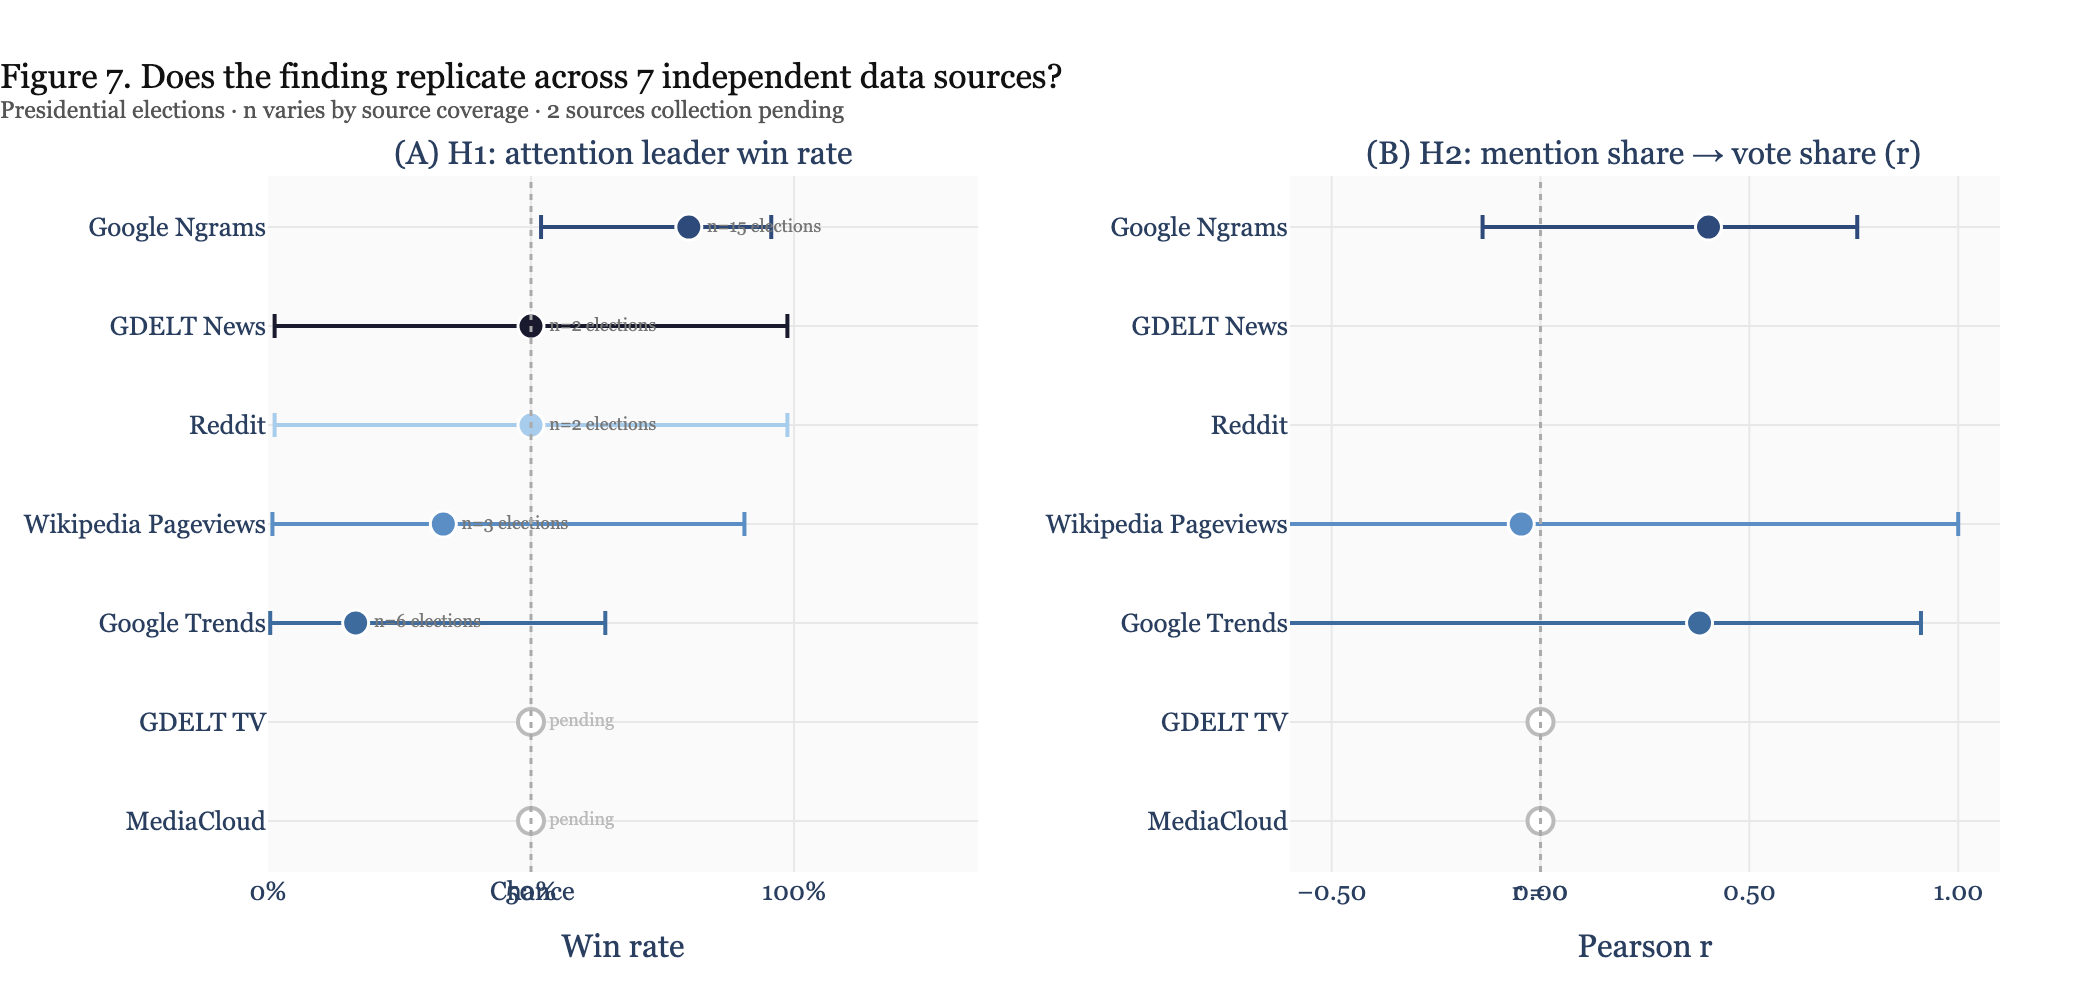
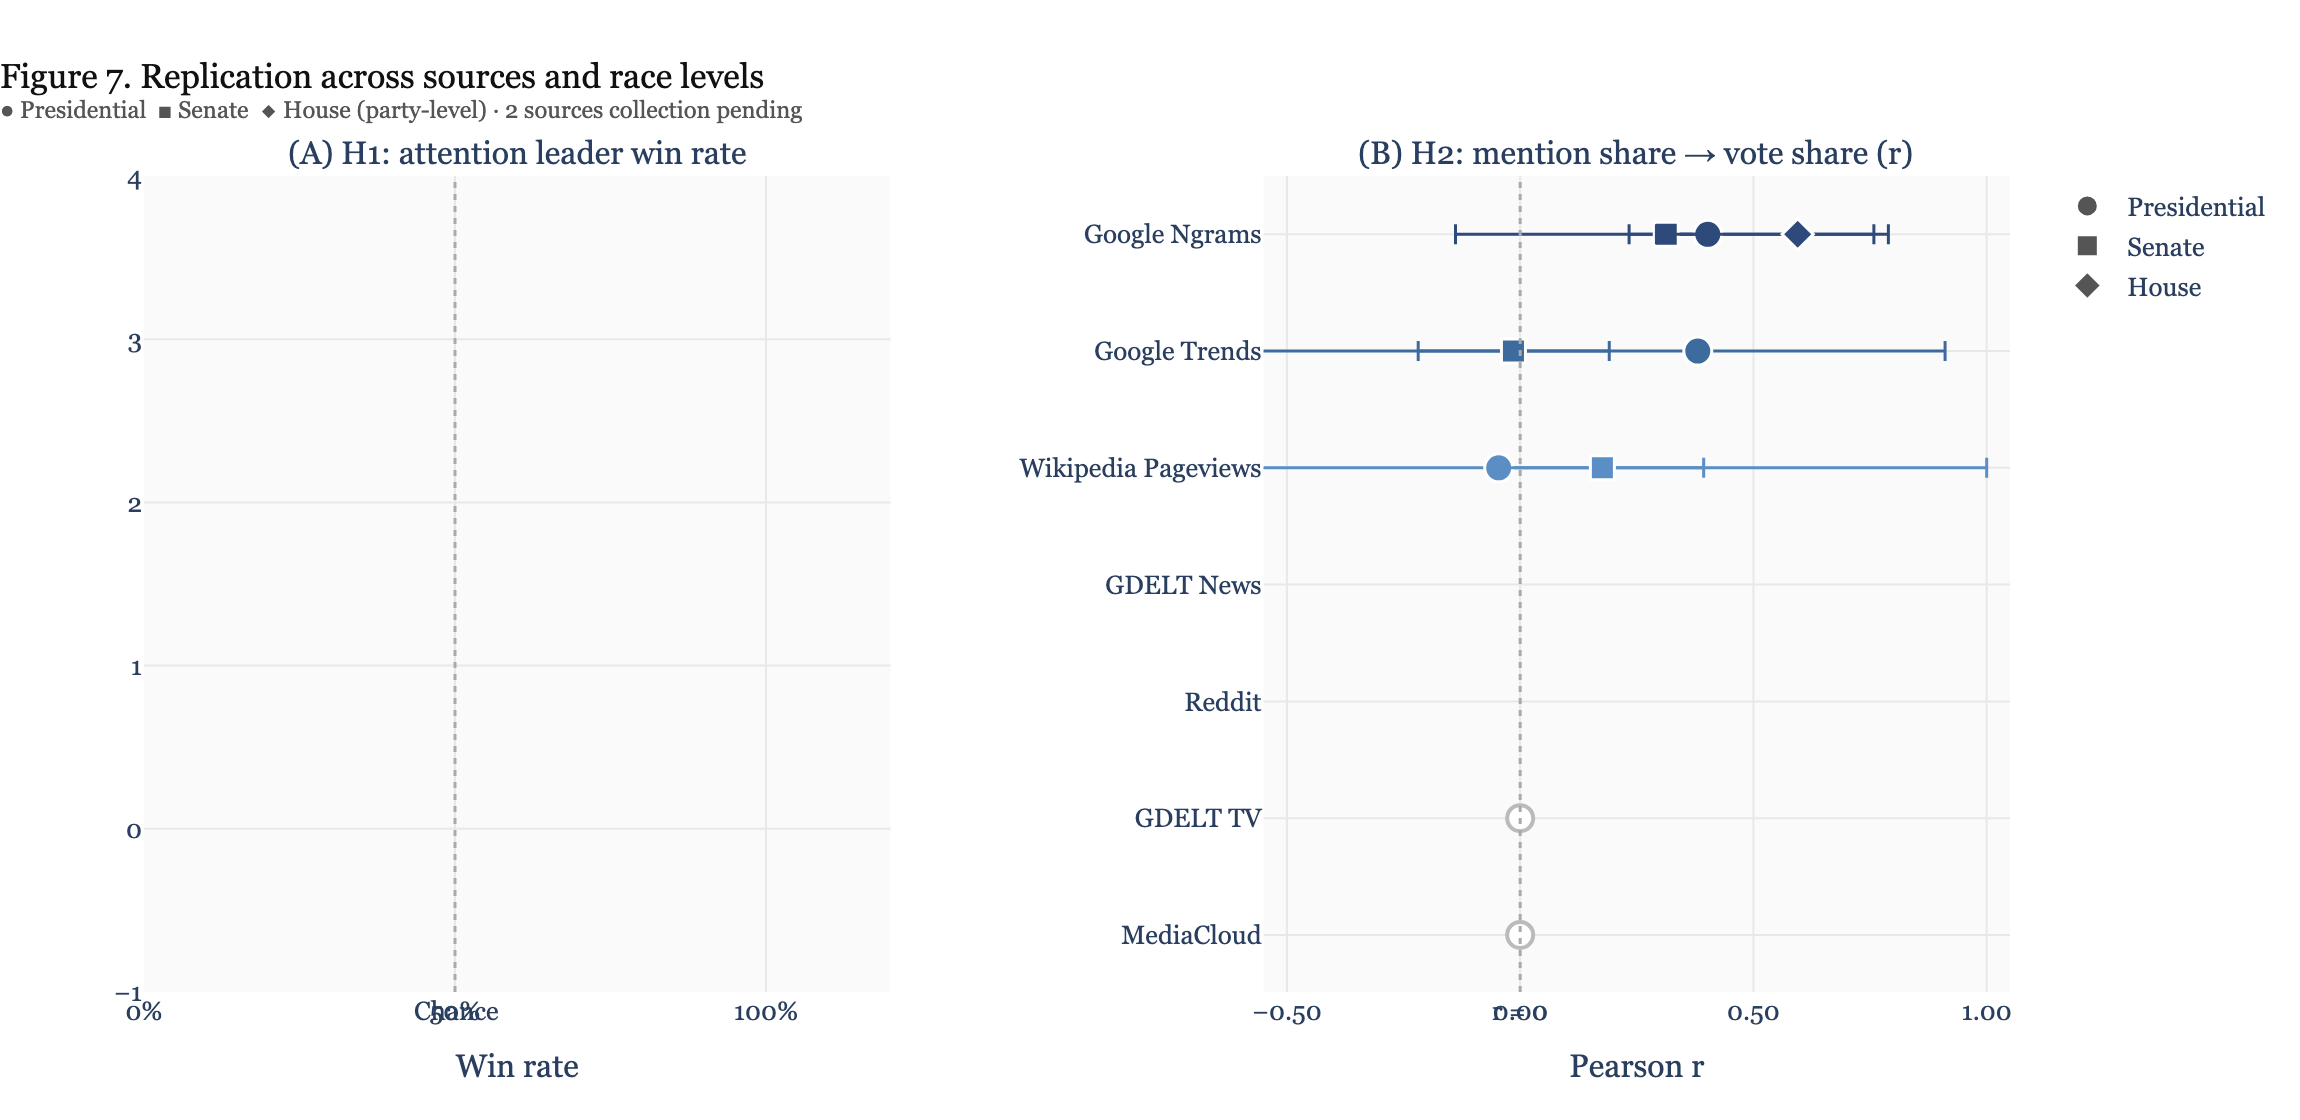
Fig 3 + Fig 7: add Senate and House levels to all multi-source figures
Fig 3: second panel added — Senate gap vs. vote margin (n=521 races),
log x-axis for skewed gap distribution. r(log)=0.40.

Fig 7: full source × level matrix. Rows = sources (5 real + 2 pending),
dots show each available level per row: ● Presidential ■ Senate ◆ House.
Coverage: Ngrams has all 3 levels; Trends + Wikipedia have pres + senate;
GDELT + Reddit presidential only. House uses party-level attention share.

diff --git a/scripts/generate_figures.py b/scripts/generate_figures.py
@@ -280,10 +280,25 @@ r3, _ = pearsonr(h3['gap'], h3['margin'])
 m3, b3 = np.polyfit(h3['gap'], h3['margin'], 1)
 xr3 = np.linspace(h3['gap'].min() - 0.05, h3['gap'].max() + 0.1, 200)
 
+# Senate gap vs margin
+senate_ng['gap'] = senate_ng['winner_mention_share'] / (1 - senate_ng['winner_mention_share'])
+senate_ng['margin'] = senate_ng['winner_vote_pct'] - senate_ng['loser_vote_pct']
+senate_ng['upset'] = senate_ng['gap'] < 1
+
+# Use log(gap) for OLS since gap is right-skewed
+from scipy.stats import pearsonr as _pr
+r3s_log, _ = _pr(np.log(senate_ng['gap']), senate_ng['margin'])
+s_sub = senate_ng[senate_ng['gap'] <= senate_ng['gap'].quantile(0.95)]
+m3s, b3s = np.polyfit(s_sub['gap'], s_sub['margin'], 1)
+
 fig = make_subplots(rows=1, cols=2,
-    subplot_titles=['(A) Attention gap vs. vote margin', '(B) Attention ratio by election year'],
+    subplot_titles=[
+        f'(A) Presidential — gap vs. vote margin (n={len(h3)})',
+        f'(B) Senate — gap vs. vote margin (n={len(senate_ng):,})',
+    ],
     horizontal_spacing=0.12)
 
+# Panel A — Presidential (labeled points, linear scale)
 for upset, color, label in [(False, NAVY, 'Attention → winner'), (True, UPSET, 'Attention upset')]:
     sub = h3[h3['upset'] == upset]
     fig.add_trace(go.Scatter(
@@ -297,29 +312,39 @@ fig.add_trace(go.Scatter(x=xr3, y=m3 * xr3 + b3, mode='lines',
 fig.add_vline(x=1, line_dash='dot', line_color='#aaa', line_width=1.5, row=1, col=1)
 fig.add_hline(y=0, line_dash='dot', line_color='#aaa', line_width=1, row=1, col=1)
 
-bar_colors = [UPSET if u else NAVY for u in h3['upset']]
-winner_labels = h3['winner_name'].str.split().str[-1] + ' ' + h3['gap'].map('{:.2f}×'.format)
-fig.add_trace(go.Bar(
-    x=h3['year'], y=h3['gap'],
-    text=winner_labels,
-    textposition='outside', textfont=dict(size=8),
-    marker_color=bar_colors, marker_line_width=0, width=3,
-    showlegend=False,
+# Panel B — Senate (dots, log x-axis to handle extreme outliers)
+for upset, color, label in [(False, '#3d6b9e', 'Attention → winner'), (True, UPSET, 'Attention upset')]:
+    sub = senate_ng[senate_ng['upset'] == upset]
+    fig.add_trace(go.Scatter(
+        x=sub['gap'], y=sub['margin'], mode='markers',
+        marker=dict(color=color, size=4, opacity=0.4, line=dict(width=0)),
+        name=label, legendgroup=label, showlegend=False,
+        hovertemplate='%{x:.1f}× gap · %{y:.1%} margin<extra></extra>',
+    ), row=1, col=2)
+
+# OLS on log-scale gap for Senate panel
+log_gap_s = np.log10(senate_ng['gap'].clip(lower=0.001))
+m3s_log, b3s_log = np.polyfit(log_gap_s, senate_ng['margin'], 1)
+xlog_range = np.linspace(log_gap_s.min(), log_gap_s.quantile(0.99), 200)
+fig.add_trace(go.Scatter(
+    x=10**xlog_range, y=m3s_log * xlog_range + b3s_log, mode='lines',
+    line=dict(color='#222', dash='dash', width=2),
+    name=f'OLS log-gap (r={r3s_log:.2f})', showlegend=True,
 ), row=1, col=2)
-fig.add_hline(y=1, line_dash='dot', line_color='#aaa', line_width=1.5,
-    annotation_text='Equal (1×)', annotation_position='top left', row=1, col=2)
+fig.add_vline(x=1, line_dash='dot', line_color='#aaa', line_width=1.5, row=1, col=2)
+fig.add_hline(y=0, line_dash='dot', line_color='#aaa', line_width=1, row=1, col=2)
 
 fig.update_xaxes(title_text='Mention ratio (winner ÷ loser)', row=1, col=1)
+fig.update_xaxes(title_text='Mention ratio (winner ÷ loser, log scale)',
+    type='log', row=1, col=2)
 fig.update_yaxes(tickformat='.1%', title_text='Popular vote margin', row=1, col=1)
-fig.update_xaxes(title_text='Election year', tickmode='array',
-    tickvals=h3['year'].tolist(), tickangle=-55, tickfont=dict(size=10), row=1, col=2)
-fig.update_yaxes(title_text='Attention ratio (winner ÷ loser)',
-    range=[0, h3['gap'].max() * 1.25], row=1, col=2)
+fig.update_yaxes(tickformat='.1%', title_text='Popular vote margin', row=1, col=2)
 fig.update_xaxes(showgrid=True, gridcolor=GRID, zeroline=False)
 fig.update_yaxes(showgrid=True, gridcolor=GRID, zeroline=False)
 style(fig,
-      'Figure 3. Attention gap: does bigger coverage lead predict bigger win?',
-      f'Google Ngrams · 1960–2016 · Red = elections where attention underdog won · r={r3:.2f}',
+      'Figure 3. Attention gap vs. vote margin — presidential and Senate',
+      f'Google Ngrams · Pres r={r3:.2f} · Senate r(log)={r3s_log:.2f} · '
+      f'Red = attention underdog won',
       w=1100, h=520)
 save(fig, 'figures/fig3_gap_and_timeline.png')
 
@@ -433,81 +458,143 @@ style(fig,
 save(fig, 'figures/fig6_gap_distribution.png')
 
 
-# ── Figure 7: Multi-source forest plot ────────────────────────────────────────
-# Build source stats from real data (presidential only for cross-source comparison)
-def source_entry(name, df, color, desc):
+# ── Figure 7: Multi-source × multi-level forest plot ─────────────────────────
+# Rows = sources. Each source shows up to 3 dots: presidential (circle),
+# senate (square), house (diamond). Levels with no data are omitted per row.
+# 2 panels: (A) H1 win rate, (B) H2 Pearson r.
+
+def level_entry(df, level, vote_col, is_fraction=True):
+    """Compute H1 and H2 for one source × level combination."""
+    df = df[df['attention_leader_won'].notna()].copy()
+    if len(df) < 2:
+        return None
     k, n, rate, lo, hi, pval = h1_stats(df)
-    ms = df['winner_mention_share']
-    vs = df['winner_vote_frac'] if 'winner_vote_frac' in df.columns else df['winner_vote_pct'] / 100
     if n >= 3:
-        r, _, r_lo, r_hi = h2_stats('winner_mention_share',
-                                     'winner_vote_frac' if 'winner_vote_frac' in df.columns else 'winner_vote_pct',
-                                     df)
-        if 'winner_vote_frac' not in df.columns:
-            r, _, r_lo, r_hi = pearsonr(ms, vs / 100 if vs.max() > 2 else vs), None, None, None
-            r, p2 = pearsonr(ms, df['winner_vote_pct'] / 100)
-            r_lo, r_hi = pearson_r_ci(r, n)
+        vs = df[vote_col] if is_fraction else df[vote_col] / 100
+        r, _, r_lo, r_hi = h2_stats('winner_mention_share', vote_col, df) if is_fraction \
+            else (lambda: (lambda r2, p2: (*([r2, p2]), *pearson_r_ci(r2, n)))
+                          (*pearsonr(df['winner_mention_share'], df[vote_col] / 100)))()
+        if not is_fraction:
+            r2, _ = pearsonr(df['winner_mention_share'], df[vote_col] / 100)
+            r_lo2, r_hi2 = pearson_r_ci(r2, n)
+            r, r_lo, r_hi = r2, r_lo2, r_hi2
     else:
         r, r_lo, r_hi = float('nan'), float('nan'), float('nan')
-    return dict(name=name, color=color, desc=desc,
-                n=n, rate=rate, lo=lo, hi=hi, pval=pval,
+    return dict(level=level, n=n, rate=rate, lo=lo, hi=hi, pval=pval,
                 r=r, r_lo=r_lo, r_hi=r_hi)
 
-sources_real = [
-    source_entry('Google Ngrams',       pres_ng,    SRC_PALETTE[1], 'Book corpus · 1960–2016'),
-    source_entry('Google Trends',       trends_pres, SRC_PALETTE[2], 'Search volume · 2004–2024'),
-    source_entry('Wikipedia Pageviews', wiki_pres,  SRC_PALETTE[3], 'Article views · 2016–2024'),
-    source_entry('GDELT News',          gdelt_pres, SRC_PALETTE[0], 'News articles · 2020–2024'),
-    source_entry('Reddit',              reddit_pres,SRC_PALETTE[5], 'r/politics posts · 2008–2012'),
-]
+# House needs special handling (party-level, d_attention_share vs d_seat_share)
+def house_level_entry():
+    k, n, rate, lo, hi, pval = h1_stats(house_ng, 'attn_predicts_majority')
+    r, _, r_lo, r_hi = h2_stats('d_attention_share', 'd_seat_share', house_ng)
+    return dict(level='House', n=n, rate=rate, lo=lo, hi=hi, pval=pval,
+                r=r, r_lo=r_lo, r_hi=r_hi)
 
-# Sort by H1 win rate
-src_df = pd.DataFrame(sources_real).sort_values('rate', ascending=False)
+# Senate Trends: vote_pct is fraction already
+senate_trends = pd.read_csv('data/raw/trends/senate_mention_shares.csv')
+senate_trends = senate_trends[senate_trends['attention_leader_won'].notna()].copy()
+senate_trends['winner_vote_frac'] = senate_trends['winner_vote_pct']
+
+senate_wiki = pd.read_csv('data/raw/wikipedia/senate_mention_shares.csv')
+senate_wiki['winner_vote_frac'] = senate_wiki['winner_vote_pct']
+
+# Build the full source × level matrix
+SOURCE_LEVELS = [
+    ('Google Ngrams',       SRC_PALETTE[1], [
+        level_entry(pres_ng,      'Presidential', 'winner_vote_frac'),
+        level_entry(senate_ng,    'Senate',        'winner_vote_pct'),
+        house_level_entry(),
+    ]),
+    ('Google Trends',       SRC_PALETTE[2], [
+        level_entry(trends_pres,   'Presidential', 'winner_vote_frac'),
+        level_entry(senate_trends, 'Senate',        'winner_vote_frac'),
+    ]),
+    ('Wikipedia Pageviews', SRC_PALETTE[3], [
+        level_entry(wiki_pres,  'Presidential', 'winner_vote_frac'),
+        level_entry(senate_wiki,'Senate',        'winner_vote_frac'),
+    ]),
+    ('GDELT News',          SRC_PALETTE[0], [
+        level_entry(gdelt_pres, 'Presidential', 'winner_vote_frac'),
+    ]),
+    ('Reddit',              SRC_PALETTE[5], [
+        level_entry(reddit_pres,'Presidential', 'winner_vote_frac'),
+    ]),
+]
 
 PENDING = [
-    ('GDELT TV',    SRC_PALETTE[4], 'Broadcast transcripts · collection pending'),
-    ('MediaCloud',  SRC_PALETTE[6], 'Academic news index · collection pending'),
+    ('GDELT TV',   SRC_PALETTE[4]),
+    ('MediaCloud', SRC_PALETTE[6]),
 ]
+
+LEVEL_SYMBOLS = {'Presidential': 'circle', 'Senate': 'square', 'House': 'diamond'}
+LEVEL_SIZES   = {'Presidential': 14,       'Senate': 12,        'House': 12}
+
+source_names = [s[0] for s in SOURCE_LEVELS] + [p[0] for p in PENDING]
 
 fig = make_subplots(rows=1, cols=2,
     subplot_titles=['(A) H1: attention leader win rate', '(B) H2: mention share → vote share (r)'],
-    horizontal_spacing=0.18)
+    horizontal_spacing=0.20)
 
-all_names = list(src_df['name']) + [p[0] for p in PENDING]
+# Legend traces (one per level, shown once)
+legend_added = set()
+for _, color, levels in SOURCE_LEVELS:
+    for entry in levels:
+        if entry is None:
+            continue
+        lvl = entry['level']
+        if lvl not in legend_added:
+            fig.add_trace(go.Scatter(
+                x=[None], y=[None], mode='markers',
+                marker=dict(color='#555', size=11, symbol=LEVEL_SYMBOLS[lvl],
+                            line=dict(color='white', width=1.5)),
+                name=lvl, showlegend=True,
+            ), row=1, col=1)
+            legend_added.add(lvl)
 
-for _, s in src_df.iterrows():
-    n_str = f"n={s['n']} elections"
-    fig.add_trace(go.Scatter(
-        x=[s['rate']], y=[s['name']],
-        error_x=dict(type='data', symmetric=False,
-                     array=[s['hi'] - s['rate']], arrayminus=[s['rate'] - s['lo']],
-                     thickness=2, width=6),
-        mode='markers+text',
-        text=[n_str], textposition='middle right', textfont=dict(size=9, color='#777'),
-        marker=dict(color=s['color'], size=13, symbol='circle',
-                    line=dict(color='white', width=1.5)),
-        name=s['name'], showlegend=False,
-        hovertemplate=f"{s['name']}<br>Win rate: %{{x:.0%}}<br>{n_str}<extra></extra>",
-    ), row=1, col=1)
+for sname, color, levels in SOURCE_LEVELS:
+    for entry in levels:
+        if entry is None:
+            continue
+        lvl = entry['level']
+        sym = LEVEL_SYMBOLS[lvl]
+        sz  = LEVEL_SIZES[lvl]
+        n_str = f"n={entry['n']:,}"
 
-    if not np.isnan(s['r']):
-        r_lo = s['r_lo'] if not np.isnan(s['r_lo']) else s['r']
-        r_hi = s['r_hi'] if not np.isnan(s['r_hi']) else s['r']
+        # H1 panel
         fig.add_trace(go.Scatter(
-            x=[s['r']], y=[s['name']],
+            x=[entry['rate']], y=[sname],
             error_x=dict(type='data', symmetric=False,
-                         array=[r_hi - s['r']], arrayminus=[s['r'] - r_lo],
-                         thickness=2, width=6),
+                         array=[entry['hi'] - entry['rate']],
+                         arrayminus=[entry['rate'] - entry['lo']],
+                         thickness=1.5, width=5),
             mode='markers',
-            marker=dict(color=s['color'], size=13, symbol='circle',
+            marker=dict(color=color, size=sz, symbol=sym,
                         line=dict(color='white', width=1.5)),
             showlegend=False,
-            hovertemplate=f"{s['name']}<br>r = %{{x:.2f}}<br>{n_str}<extra></extra>",
-        ), row=1, col=2)
+            hovertemplate=f'{sname} ({lvl})<br>Win rate: %{{x:.0%}}<br>{n_str}<extra></extra>',
+        ), row=1, col=1)
 
-# Pending rows (hollow markers)
-for pname, pcolor, pdesc in PENDING:
-    for col, xval in [(1, 0.5), (2, 0.0)]:
+        # H2 panel
+        if not np.isnan(entry['r']):
+            r_lo = entry['r_lo'] if not np.isnan(entry['r_lo']) else entry['r']
+            r_hi = entry['r_hi'] if not np.isnan(entry['r_hi']) else entry['r']
+            fig.add_trace(go.Scatter(
+                x=[entry['r']], y=[sname],
+                error_x=dict(type='data', symmetric=False,
+                             array=[r_hi - entry['r']],
+                             arrayminus=[entry['r'] - r_lo],
+                             thickness=1.5, width=5),
+                mode='markers',
+                marker=dict(color=color, size=sz, symbol=sym,
+                            line=dict(color='white', width=1.5)),
+                showlegend=False,
+                hovertemplate=f'{sname} ({lvl})<br>r = %{{x:.2f}}<br>{n_str}<extra></extra>',
+            ), row=1, col=2)
+
+# Pending rows
+for pname, pcolor in PENDING:
+    for col in [1, 2]:
+        xval = 0.5 if col == 1 else 0.0
         fig.add_trace(go.Scatter(
             x=[xval], y=[pname],
             mode='markers+text',
@@ -516,7 +603,6 @@ for pname, pcolor, pdesc in PENDING:
             marker=dict(color='white', size=13, symbol='circle',
                         line=dict(color='#bbb', width=2)),
             showlegend=False,
-            hovertemplate=f'{pname}<br>{pdesc}<extra></extra>',
         ), row=1, col=col)
 
 fig.add_vline(x=0.5, line_dash='dot', line_color='#aaa', line_width=1.5,
@@ -524,15 +610,15 @@ fig.add_vline(x=0.5, line_dash='dot', line_color='#aaa', line_width=1.5,
 fig.add_vline(x=0.0, line_dash='dot', line_color='#aaa', line_width=1.5,
     annotation_text='r = 0', annotation_position='bottom', row=1, col=2)
 
-fig.update_xaxes(tickformat='.0%', range=[0, 1.35], title_text='Win rate', row=1, col=1)
-fig.update_xaxes(tickformat='.2f', range=[-0.6, 1.1], title_text='Pearson r', row=1, col=2)
-fig.update_yaxes(categoryorder='array', categoryarray=all_names[::-1])
+fig.update_xaxes(tickformat='.0%', range=[0, 1.2], title_text='Win rate', row=1, col=1)
+fig.update_xaxes(tickformat='.2f', range=[-0.55, 1.05], title_text='Pearson r', row=1, col=2)
+fig.update_yaxes(categoryorder='array', categoryarray=source_names[::-1])
 fig.update_xaxes(showgrid=True, gridcolor=GRID, zeroline=False)
 fig.update_yaxes(showgrid=False)
 style(fig,
-      'Figure 7. Does the finding replicate across 7 independent data sources?',
-      'Presidential elections · n varies by source coverage · 2 sources collection pending',
-      w=1050, h=500)
+      'Figure 7. Replication across sources and race levels',
+      '● Presidential  ■ Senate  ◆ House (party-level) · 2 sources collection pending',
+      w=1150, h=560)
 save(fig, 'figures/fig7_multi_source_forest.png')
 
 